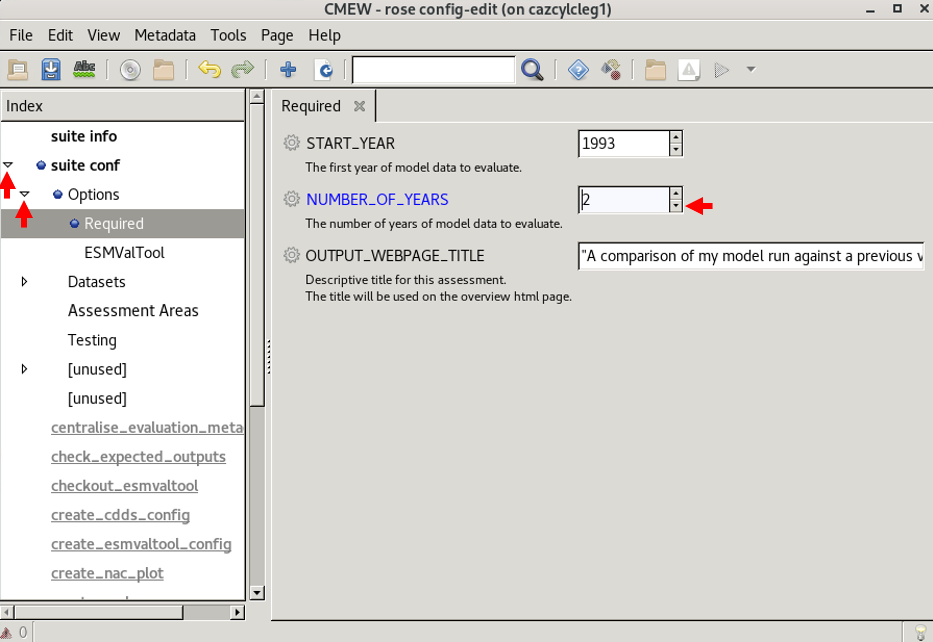
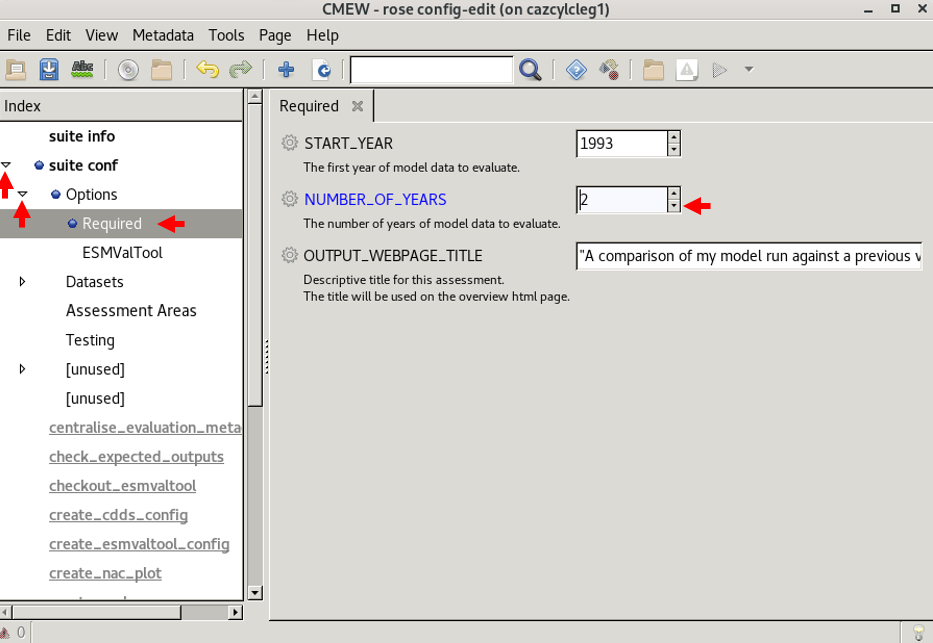
Tweaks

diff --git a/doc/source/tutorials/cloning_running_cmew/tutorial_part_6.rst b/doc/source/tutorials/cloning_running_cmew/tutorial_part_6.rst
@@ -51,7 +51,8 @@ The "play" arrow [triangle] to the left of the workflow name indicates that the 
 
    * the text "CMEW/GC5_vs_GC3".
 
-We will notice various tasks starting, running and finishing.
+On the main panel of the |Cylc| GUI (on the right hand side of the page)
+we will notice various tasks starting, running and finishing.
 
 We can tell that the whole workflow is complete once a "stop" square replaces the triangle.
 We will also notice that the text "CMEW/GC5_vs_GC3" turns grey rather than black at this time.

diff --git a/doc/source/tutorials/cloning_running_cmew/tutorial_part_3.rst b/doc/source/tutorials/cloning_running_cmew/tutorial_part_3.rst
@@ -20,6 +20,7 @@ evaluate model run ``u-cw673`` as the experiment.
 
    This information was obtained from the following address:
    https://code.metoffice.gov.uk/trac/roses-u/browser/c/w/6/7/3/trunk/rose-suite.info
+
    Here is a copy of the information, for ease of reference:
 
    .. image:: images/u-cw673_suite_info.png
